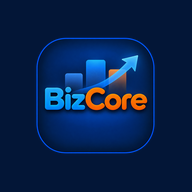
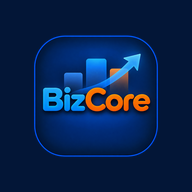
icone change

Changed region(s): [[0.1562, 0.1562, 0.8438, 0.8438]]

diff --git a/sw.js b/sw.js
@@ -8,7 +8,7 @@
   Bump CACHE_NAME whenever app files change materially so old caches are
   cleared and users get the latest version.
 */
-const CACHE_NAME = 'bizcore-shell-v27047-icontrial1';
+const CACHE_NAME = 'bizcore-shell-v27047-iconborder2';
 const APP_SHELL = [
   './login.html',
   './delivery.html',
